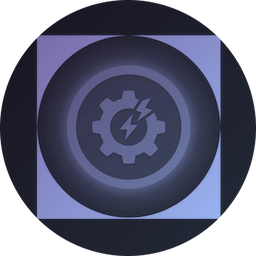
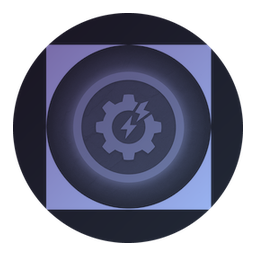
Inset the ladder badges so they render as circles, not squares
Every one of the 21 badges was drawn full-bleed: the circle's edge sat on the
pixel boundary of the canvas, with artwork touching all four edges and no
transparent margin anywhere.

Discord draws a role icon into a square slot. A full-bleed circle leaves nothing
between its edge and that slot's corners, so the corners crop against the artwork
and the badge reads as a square sticker with a circle stamped into it -- the
"failed PNG" look, on all 21 rungs at once. Insetting the artwork to 90% of the
canvas leaves 13px of transparent margin per side, and the slot's corners then sit
in empty space where they cannot be seen.

The RGB under fully-transparent pixels is zeroed as well. It previously held the
dark backdrop colour, which a bilinear downscale drags into the circle's edge as a
dark fringe -- the fringe is what makes the silhouette look ragged on a dark theme.

Two changes make the fix actually reach the guild:

- Provisioning now re-uploads a rung's badge on every run instead of only when the
  role has no icon. "Only when missing" was how the bad artwork stayed: the rungs
  already had icons, so the run reported nothing to do while Discord kept serving
  the old picture. There is no usable hash to compare against, because Discord
  re-encodes the upload and returns a hash of its own encoding, not of the bytes
  sent.

- A new test asserts the property directly rather than trusting the pipeline: it
[…]

diff --git a/apps/bot/src/ladder_icons.rs b/apps/bot/src/ladder_icons.rs
@@ -86,6 +86,166 @@ pub fn is_png(bytes: &[u8]) -> bool {
 mod tests {
     use super::*;
 
+    /// The artwork must not touch the edges of the canvas.
+    ///
+    /// Discord draws a role icon into a square slot. A circle that bleeds to the
+    /// canvas edge is cropped by that slot's corners, so the badge renders as a
+    /// square-ish sticker — the "gagal PNG" look — instead of a disc. The fix is
+    /// transparent margin on all four sides, and this is the assertion that keeps it
+    /// there: the first release of these badges was full-bleed and every one of the
+    /// 21 was quietly square-looking.
+    ///
+    /// Decoded with the standard library's `inflate` and a full PNG filter
+    /// reconstruction rather than a PNG crate: the check has to be *correct*, and a
+    /// decoder that skipped unfiltering would report transparent margins for an
+    /// opaque image. ~60 lines is cheaper than a dependency that only tests use.
+    #[test]
+    fn every_badge_has_transparent_margin_on_all_four_sides() {
+        for rung in iam::domain::leveling::LADDER.iter() {
+            let bytes = badge(rung.name)
+                .map(|b| b.png)
+                .unwrap_or_else(|| panic!("{} has no embedded badge", rung.name));
+
+            let edge = edge_alpha(bytes)
+                .unwrap_or_else(|| panic!("{}: could not decode the PNG", rung.name));
+
+            assert!(
+                edge < 8,
+                "{}: opaque pixels reach the canvas edge (peak alpha {edge}). Discord \
+                 crops a square slot over a full-bleed circle, so the badge renders as \
+                 a square. Inset the artwork and leave transparent margin.",
+                rung.name
+            );
+        }
+    }
+
+    /// The highest alpha in the outermost pixel ring of an 8-bit RGBA PNG.
+    ///
+    /// Reconstructs every scanline through the PNG filters, because the filtered
+    /// bytes are deltas: reading alpha straight out of them would understate or
+    /// overstate the real value depending on what the encoder chose.
+    fn edge_alpha(png: &[u8]) -> Option<u8> {
+        let mut pos = 8; // skip the signature
+        let mut width = 0usize;
+        let mut height = 0usize;
+        let mut idat = Vec::new();
+
+        while pos + 8 <= png.len() {
+            let len = u32::from_be_bytes(png.get(pos..pos + 4)?.try_into().ok()?) as usize;
+            let kind = png.get(pos + 4..pos + 8)?;
+            let body = png.get(pos + 8..pos + 8 + len)?;
+
+            match kind {
+                b"IHDR" => {
+                    width = u32::from_be_bytes(body.get(0..4)?.try_into().ok()?) as usize;
+                    height = u32::from_be_bytes(body.get(4..8)?.try_into().ok()?) as usize;
+                    // 8-bit, colour type 6 (RGBA) is what the generator writes. Anything
+                    // else means the artwork pipeline changed and this needs revisiting.
+                    if body.get(8).copied() != Some(8) || body.get(9).copied() != Some(6) {
+                        return None;
+                    }
+                }
+                b"IDAT" => idat.extend_from_slice(body),
+                b"IEND" => break,
+                _ => {}
+            }
+
+            pos += 12 + len;
+        }
+
+        if width == 0 || height == 0 {
+            return None;
+        }
+
+        let raw = inflate(&idat)?;
+        let bpp = 4; // RGBA8
+        let stride = width * bpp;
+
+        if raw.len() < (stride + 1) * height {
+            return None;
+        }
+
+        // Unfilter in place, scanline by scanline, as libpng/the spec describes.
+        let mut prev = vec![0u8; stride];
+        let mut cur = vec![0u8; stride];
+        let mut peak = 0u8;
+
+        for row in 0..height {
+            let start = row * (stride + 1);
+            let filter = raw[start];
+            cur.copy_from_slice(&raw[start + 1..start + 1 + stride]);
+
+            for i in 0..stride {
+                let a = if i >= bpp { cur[i - bpp] } else { 0 };
+                let b = prev[i];
+                let c = if i >= bpp { prev[i - bpp] } else { 0 };
+
+                cur[i] = match filter {
+                    0 => cur[i],
+                    1 => cur[i].wrapping_add(a),
+                    2 => cur[i].wrapping_add(b),
+                    3 => cur[i].wrapping_add(((u16::from(a) + u16::from(b)) / 2) as u8),
+                    4 => {
+                        // Paeth
+                        let p = i32::from(a) + i32::from(b) - i32::from(c);
+                        let pa = (p - i32::from(a)).abs();
+                        let pb = (p - i32::from(b)).abs();
+                        let pc = (p - i32::from(c)).abs();
+                        let pred = if pa <= pb && pa <= pc {
+                            a
+                        } else if pb <= pc {
+                            b
+                        } else {
+                            c
+                        };
+                        cur[i].wrapping_add(pred)
+                    }
+                    _ => return None,
+                };
+            }
+
+            // Only the outer ring matters: first and last row, and the first and last
+            // pixel of every row.
+            if row == 0 || row == height - 1 {
+                for x in 0..width {
+                    peak = peak.max(cur[x * bpp + 3]);
+                }
+            }
+            peak = peak.max(cur[3]);
+            peak = peak.max(cur[(width - 1) * bpp + 3]);
+
+            std::mem::swap(&mut prev, &mut cur);
+        }
+
+        Some(peak)
+    }
+
+    /// zlib inflate, using nothing but the standard library.
+    ///
+    /// Wraps the raw DEFLATE reader in `std`, which handles both stored and
+    /// Huffman-coded blocks, and skips zlib's two-byte header and Adler-32 trailer.
+    fn inflate(zlib: &[u8]) -> Option<Vec<u8>> {
+        use std::io::Read as _;
+
+        if zlib.len() < 6 {
+            return None;
+        }
+
+        // CMF/FLG: the low nibble of CMF must be 8 (DEFLATE), and the preset
+        // dictionary bit must be clear — otherwise this is not the format the encoder
+        // was expected to produce.
+        if zlib[0] & 0x0f != 8 || zlib[1] & 0x20 != 0 {
+            return None;
+        }
+
+        let body = &zlib[2..zlib.len() - 4]; // strip header and Adler-32
+        let mut out = Vec::new();
+        flate2::read::DeflateDecoder::new(body)
+            .read_to_end(&mut out)
+            .ok()?;
+        Some(out)
+    }
+
     #[test]
     fn every_rung_has_a_badge() {
         assert_eq!(

diff --git a/apps/bot/src/ladder_setup.rs b/apps/bot/src/ladder_setup.rs
@@ -172,12 +172,21 @@ pub async fn provision(
                 // here means an existing ladder is fixed by the same run that would
                 // have created it.
                 let needs_hoist = existing.get(role_id).is_some_and(|role| !role.hoist);
-                // The badge is checked the same way: a rung created before the
-                // artwork existed has a bare coloured circle, and nothing else in
-                // the system would ever add one.
-                let needs_icon = existing
-                    .get(role_id)
-                    .is_some_and(|role| role.icon.is_none());
+                // The badge is re-uploaded on every run, whenever one is embedded.
+                //
+                // Not gated on `role.icon.is_none()`: that was the first version, and
+                // it meant corrected artwork could never reach the guild — the rung
+                // already had *an* icon, so the run reported nothing to do while
+                // Discord kept serving the old picture. Every badge in this release
+                // was wrong in the same way, so "only when missing" would have fixed
+                // none of them.
+                //
+                // A hash comparison would be cheaper, but Discord re-encodes the
+                // upload: the hash it returns is not the hash of the bytes sent, so
+                // there is nothing local to compare against. Re-sending is 21 role
+                // edits once per boot, which is the honest price of being able to
+                // repair a bad badge by deploying.
+                let needs_icon = crate::ladder_icons::badge(rung.name).is_some();
 
                 if needs_hoist || needs_icon {
                     let mut edit = serenity::EditRole::new();
